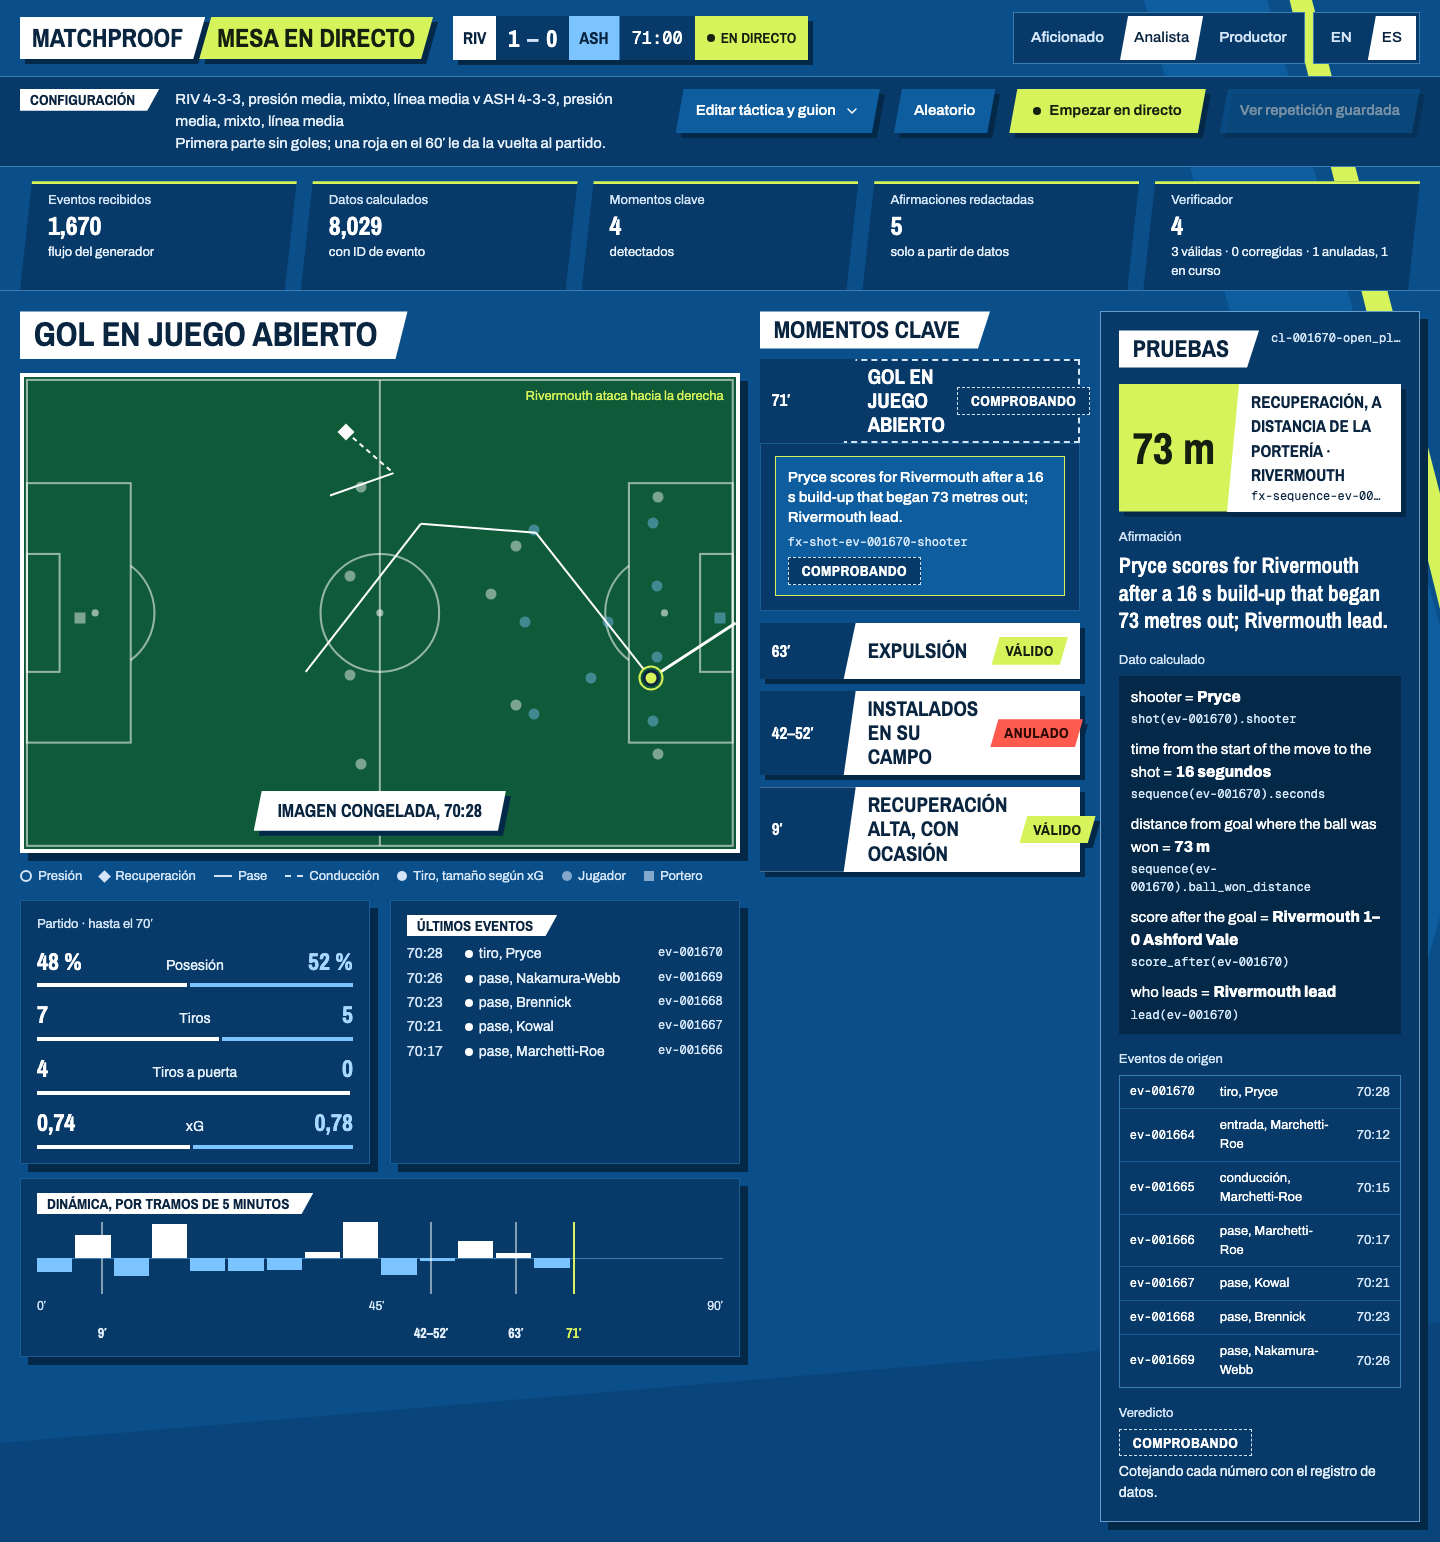
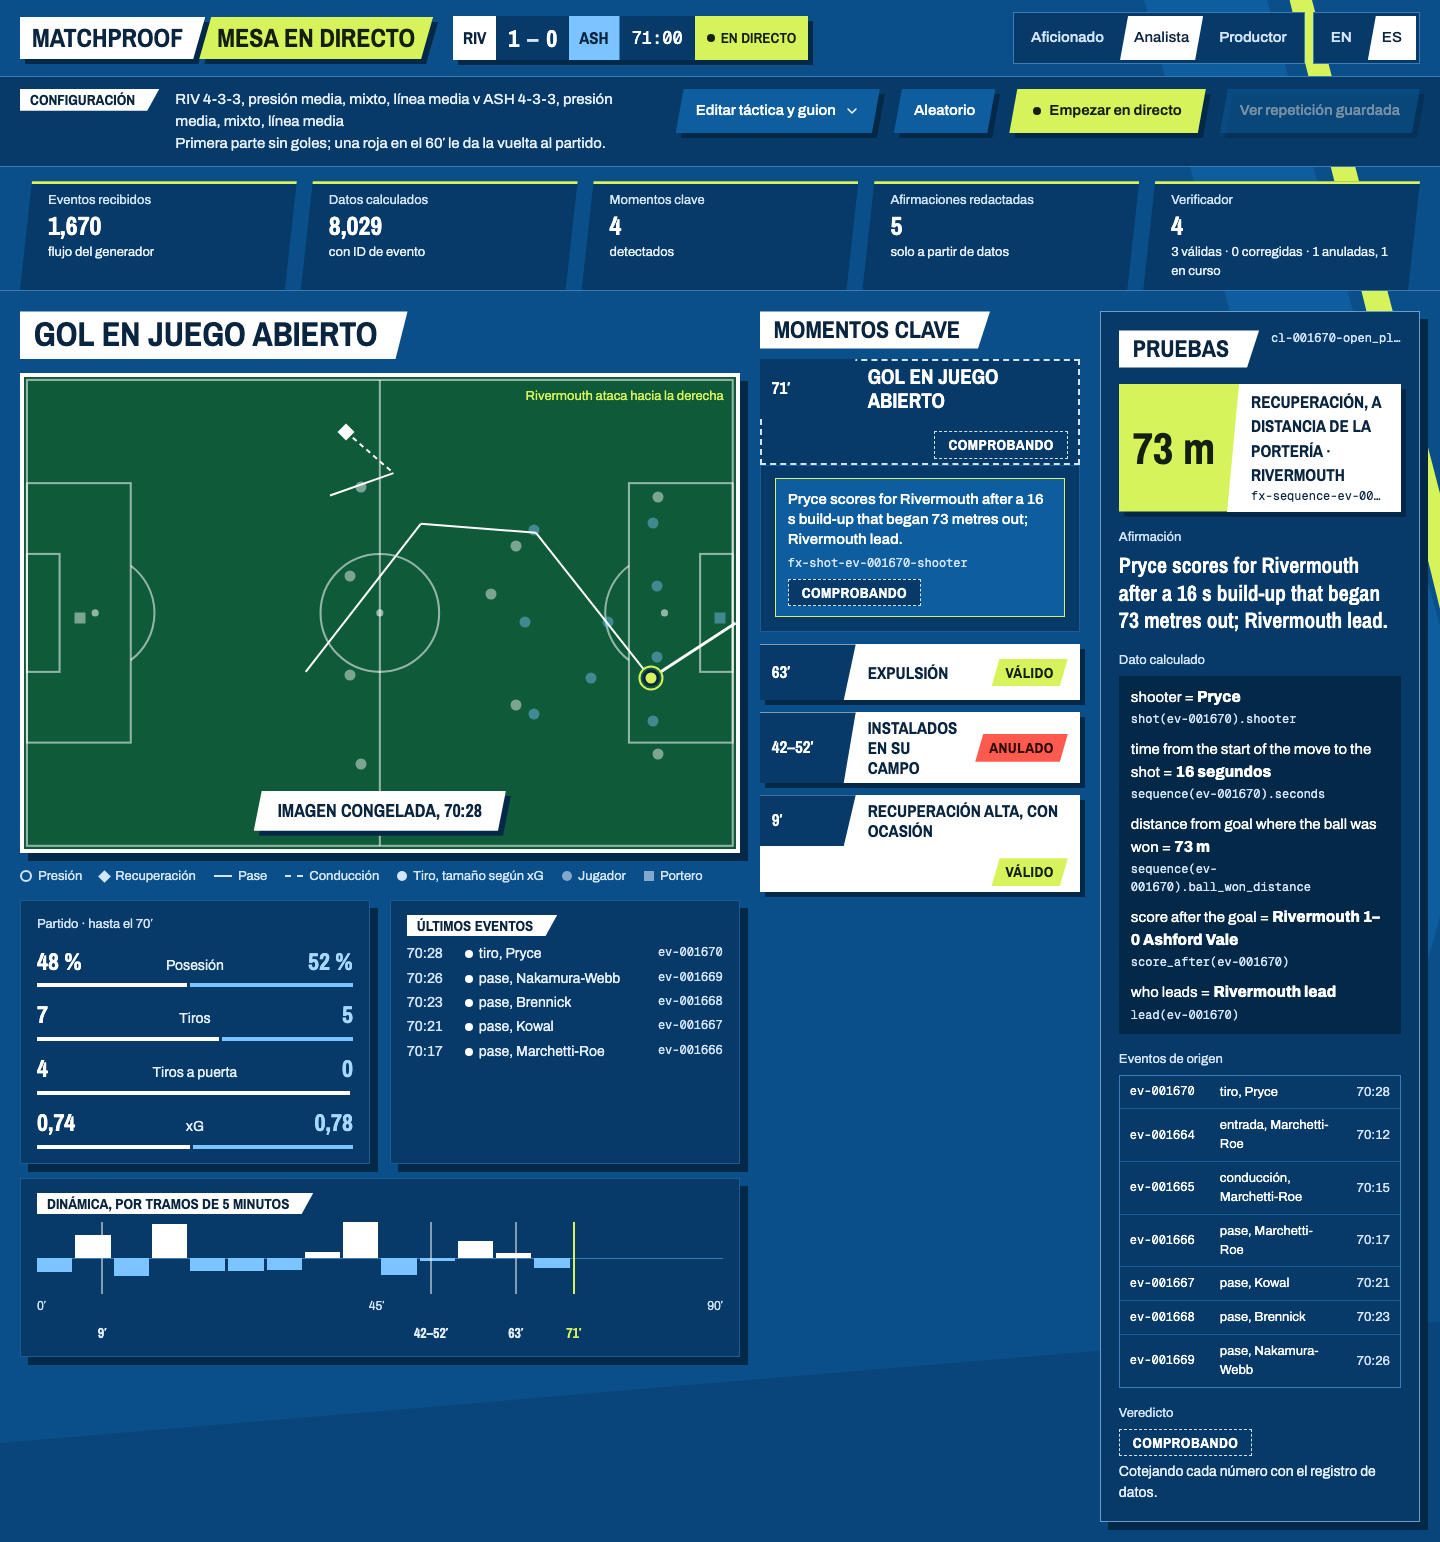
Add the Spanish feed crop and the review-fix screenshots

Changed region(s): [[0.5312, 0.2179, 0.7812, 0.5914]]

diff --git a/apps/web/e2e/shots.spec.ts b/apps/web/e2e/shots.spec.ts
@@ -33,9 +33,12 @@ test("full-page desk shots", async ({ page }) => {
   await page.screenshot({ path: `${OUT}/desk-390.png`, fullPage: true });
 });
 
-test("key-moments column crop", async ({ page }) => {
-  await open(page, `?labels=${encodeURIComponent("9′|63′|42–52′|90+4′|45+3–52′")}`);
+test("key-moments column crops", async ({ page }) => {
+  const labels = `labels=${encodeURIComponent("9′|63′|42–52′|90+4′|45+3–52′")}`;
+  await open(page, `?${labels}`);
   await page.locator("section.mp-col-feed").screenshot({ path: `${OUT}/feed-1440.png` });
+  await open(page, `?lang=es&${labels}`);
+  await page.locator("section.mp-col-feed").screenshot({ path: `${OUT}/feed-es-1440.png` });
 });
 
 async function controlsShot(page: Page, size: { width: number; height: number }, name: string): Promise<void> {
